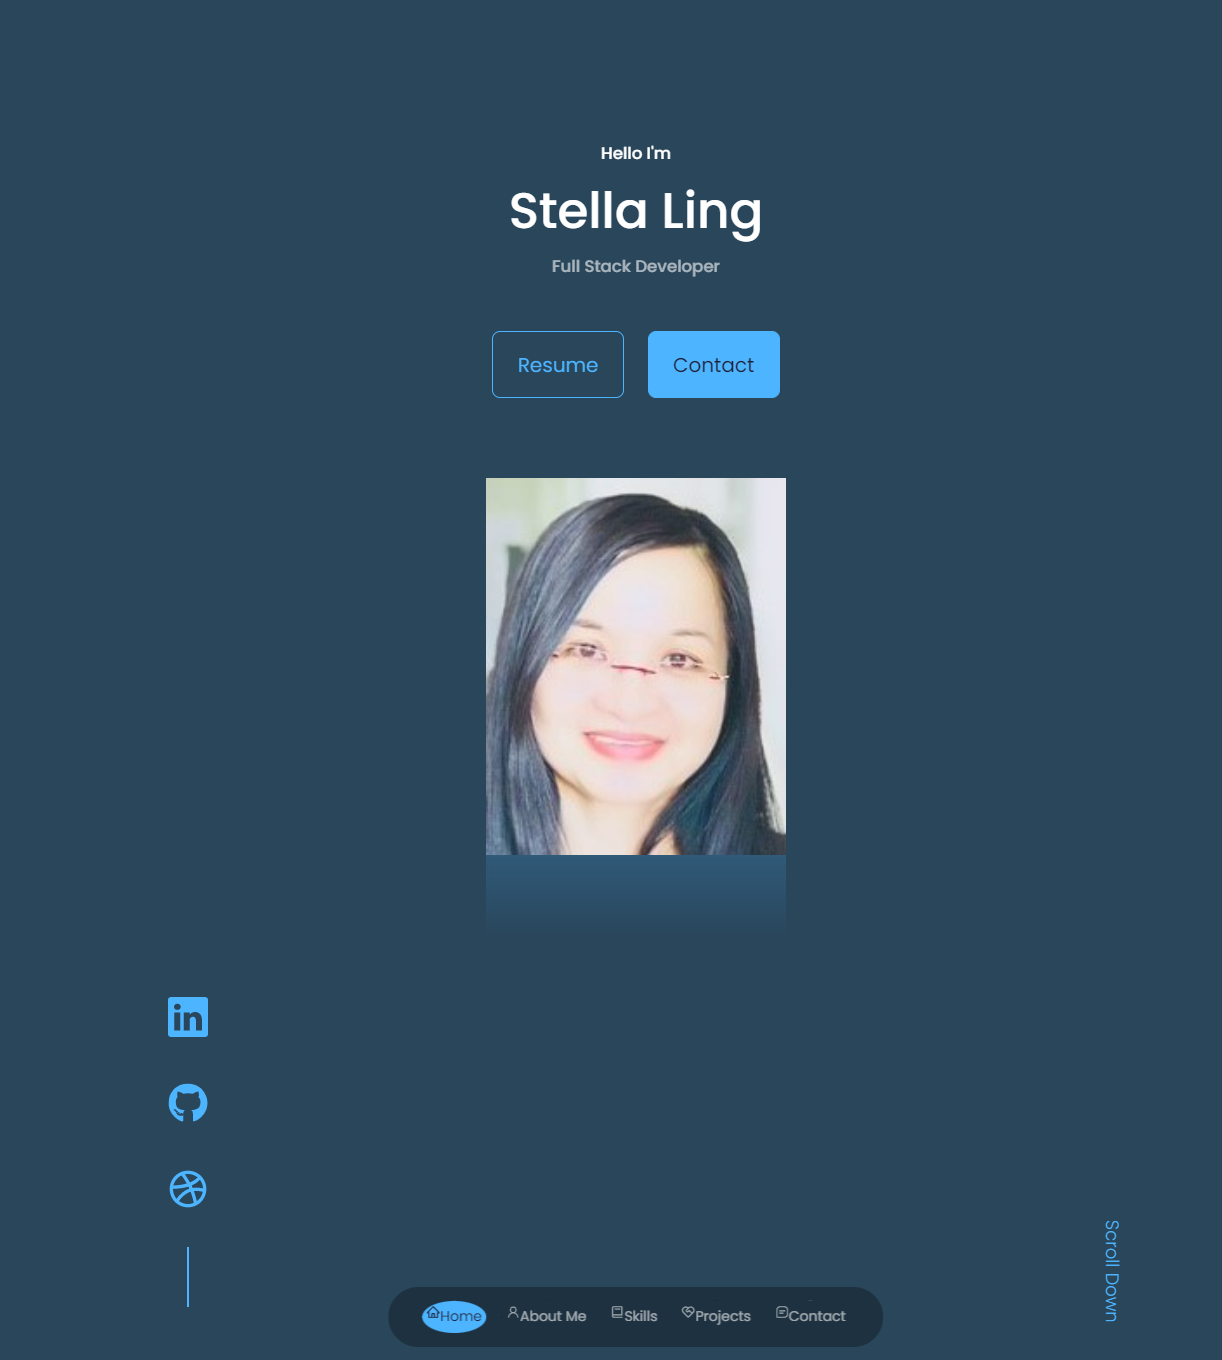
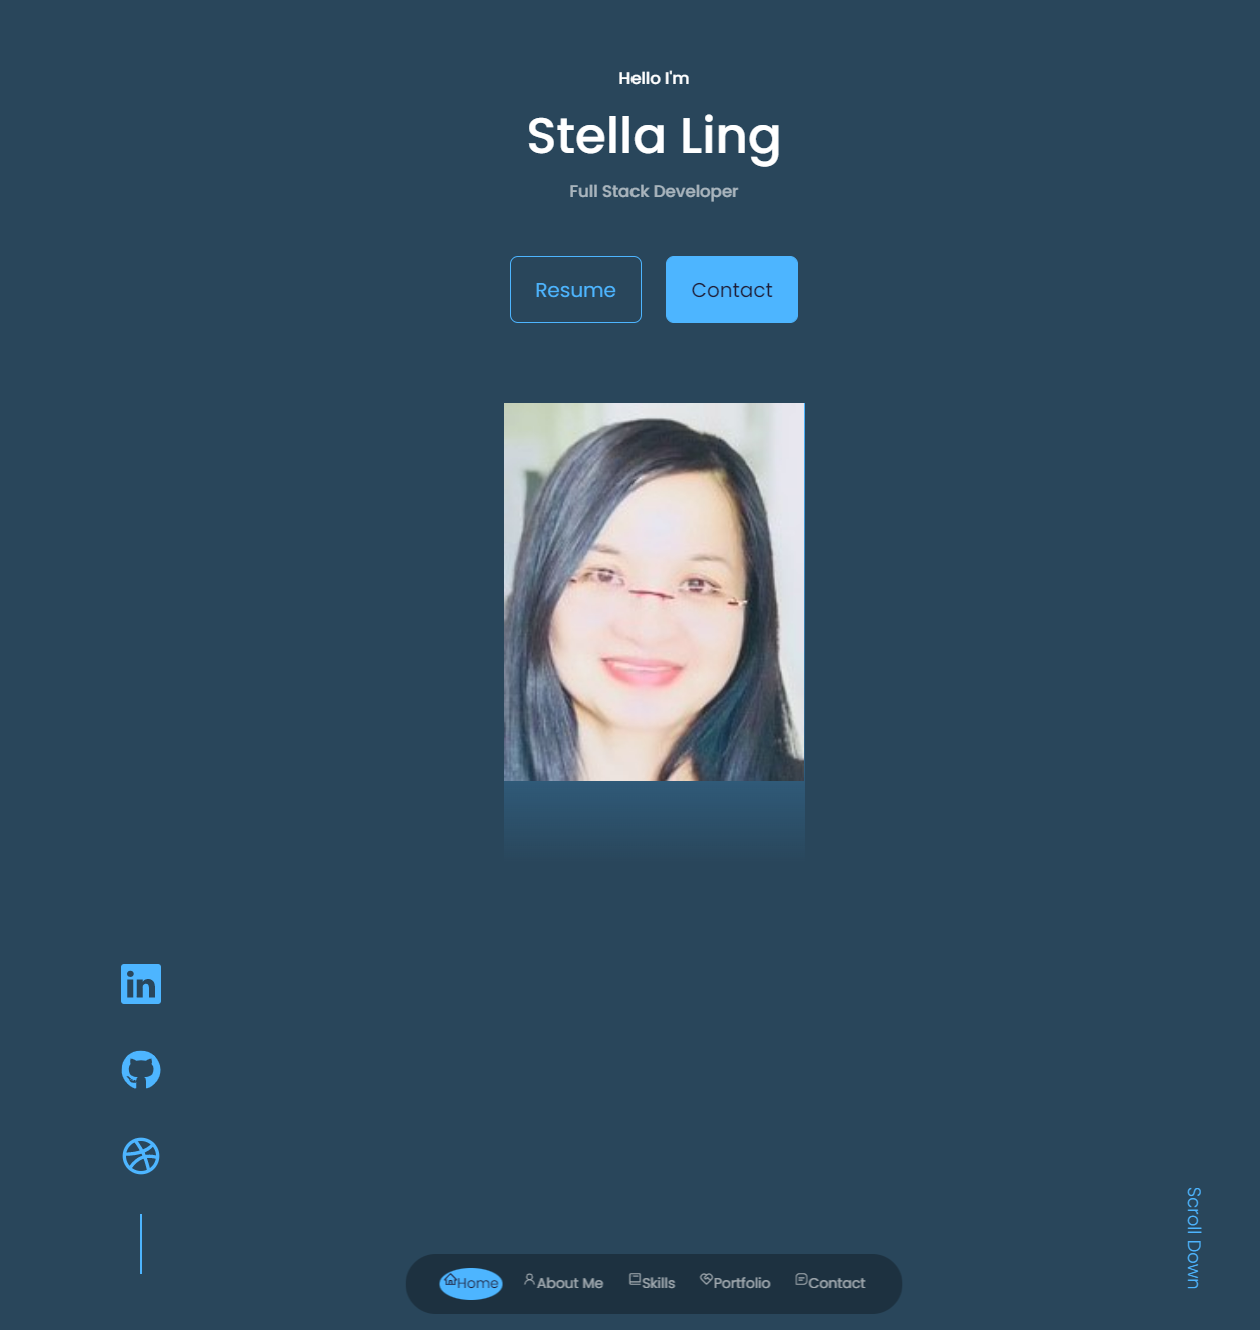
add screenshots and modify code to contact, footer and portfolio

diff --git a/src/components/footer/Footer.jsx b/src/components/footer/Footer.jsx
@@ -1,7 +1,7 @@
 import React from 'react'
 import './footer.css'
-import {FaFacebookF} from 'react-icons/fa'
-import {FiInstagram} from 'react-icons/fi'
+import {FaGithub} from 'react-icons/fa'
+import {BsLinkedin} from 'react-icons/bs'
 import {IoLogoTwitter} from 'react-icons/io'
 
 const Footer = () => {
@@ -13,14 +13,14 @@ const Footer = () => {
         <li><a href="#">Home</a></li>
         <li><a href="#about">About</a></li>
         <li><a href="#experience">Skills</a></li>
-        <li><a href="#portfolio">Projects</a></li>
+        <li><a href="#portfolio">Portfolio</a></li>
         <li><a href="#contact">Contact</a></li>
       </ul>
 
       <div className="footer__socials">
-        <a href="https://facebook.com"><FaFacebookF/></a>
-        <a href="https://instagram.com"><FiInstagram/></a>
-        <a href="https://twitter.com"><IoLogoTwitter/></a>
+        <a href="https://github.com/stellalph" target="_blank" rel="noopener noreferrer"><FaGithub/></a>
+        <a href="https://www.linkedin.com/in/stella-ling-46246476" target="blank" rel="noopener noreferrer"><BsLinkedin/></a>
+        <a href="https://twitter.com" target="_blank" rel="noopener noreferrer"><IoLogoTwitter/></a>
       </div>
 
       <div className="footer__copyright">

diff --git a/src/components/contact/Contact.jsx b/src/components/contact/Contact.jsx
@@ -4,7 +4,7 @@ import {MdOutlineEmail} from 'react-icons/md'
 import {RiMessengerLine} from 'react-icons/ri'
 import {BsWhatsapp} from 'react-icons/bs'
 import { useRef } from 'react';
-// import emailjs from 'emailjs-com'
+import emailjs from 'emailjs-com'
 
 const Contact = () => {
   const form = useRef();
@@ -12,7 +12,10 @@ const Contact = () => {
   const sendEmail = (e) => {
     e.preventDefault();
 
-    // emailjs.sendForm('service_3fjfb17', 'template_ky1ucaz', form.current, 'user_641J0AWGxx4qcKi835yDq')
+    emailjs.sendForm('service_q9ensf9', 'template_n3q79rj', form.current, 'user_9chTaQ2GjZl9I59a8')
+
+    
+
 
     e.target.reset()
   };
@@ -34,7 +37,7 @@ const Contact = () => {
             <RiMessengerLine className='contact__option-icon'/>
             <h4>Messenger</h4>
             <h5>Stella Ling</h5>
-            <a href="https://www.messenger.com/" target="_blank" rel="noopener noreferrer">Send a message</a>
+            <a href="https://m.me/Ste112/" target="_blank" rel="noopener noreferrer">Send a message</a>
           </article>
           <article className="contact__option">
             <BsWhatsapp className='contact__option-icon'/>

diff --git a/src/components/nav/Nav.jsx b/src/components/nav/Nav.jsx
@@ -14,7 +14,7 @@ const Nav = () => {
       <a href="#" onClick={() => setActiveNav('#home')} className={activeNav === '#home' ? 'active' : ''}><AiOutlineHome/>Home</a>
       <a href="#about" onClick={() => setActiveNav('#about')} className={activeNav === '#about' ? 'active' : ''}><AiOutlineUser/>About Me</a>
       <a href="#experience" onClick={() => setActiveNav('#experience')} className={activeNav === '#experience' ? 'active' : ''}><BiBook/>Skills</a>
-      <a href="#portfolio" onClick={() => setActiveNav('#portfolio')} className={activeNav === '#portfolio' ? 'active' : ''}><RiServiceLine/>Projects</a>
+      <a href="#portfolio" onClick={() => setActiveNav('#portfolio')} className={activeNav === '#portfolio' ? 'active' : ''}><RiServiceLine/>Portfolio</a>
        <a href="#contact" onClick={() => setActiveNav('#contact')} className={activeNav === '#contact' ? 'active' : ''}><BiMessageSquareDetail/>Contact</a>
     </nav>
   )

diff --git a/src/components/portfolio/Portfolio.jsx b/src/components/portfolio/Portfolio.jsx
@@ -73,7 +73,7 @@ const Portfolio = () => {
               <h3>{title}</h3>
               <div className="portfolio__item-cta">
                 <a href={github} className='btn' target='_blank'rel="noopener noreferrer">Github</a>
-                <a href={demo} className='btn btn-primary' target='_blank' rel="noopener noreferrer">Live Demo</a>
+                <a href={demo} className='btn btn-primary' target='_blank' rel="noopener noreferrer">Deployed Link</a>
               </div>
             </article>
             )

diff --git a/src/components/footer/footer.css b/src/components/footer/footer.css
@@ -48,7 +48,7 @@ footer a {
 }
 
 .footer__copyright {
-  margin-bottom: 4rem;
+  margin-bottom: 20rem;
   color: var(--color-bg);
 }
 

diff --git a/README.md b/README.md
@@ -4,7 +4,7 @@
 
 ## Description
 
-This portfolio is a single page application built up by using **React, React icons, HTML, CSS3** and a place to share the six of my projects with developers and to collaborate on the projects.
+This portfolio is a single page application built up by using **React, React icons, HTML, CSS3** and a place to share the six of the projects with developers and to collaborate on the projects.
 This will show the employers looking for candidates with experience building the single-page application and assess whether the skills are what they wanted in their candidates.
 
 This application is deployed to GitHub Pages and the URL of the functional deployed application is **https://stellalph.github.io/20s-react-portfolio/**.
@@ -65,6 +65,7 @@ WHEN I view the navigation titles
 THEN I am presented with the titles About Me, Portfolio, Contact, and Resume, and the title corresponding to the current section is highlighted
 WHEN I click on a navigation title
 THEN I am presented with the corresponding section below the navigation without the page reloading and that title is highlighted
+````
 WHEN I load the portfolio the first time
 THEN the About Me title and section are selected by default
 WHEN I am presented with the About Me section
